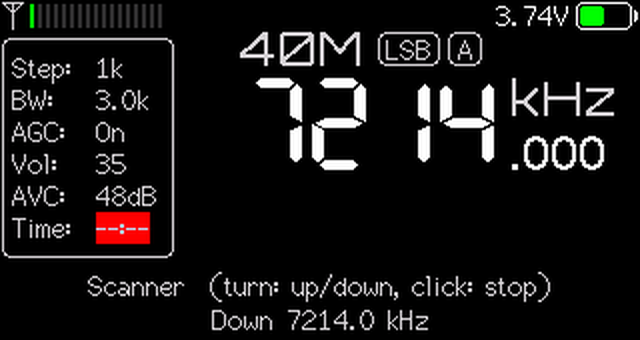
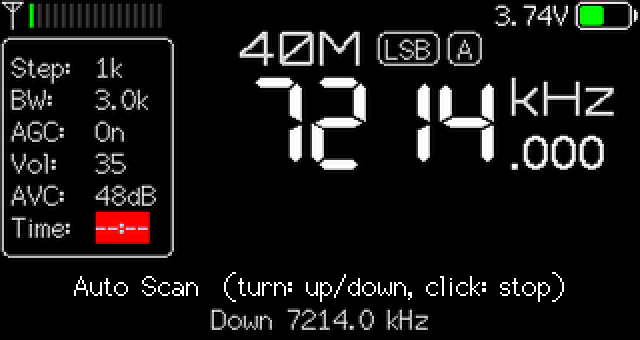
Manuals: Scan, Auto Scan and Seek set side by side in chapter 18 (English, web, Persian)

diff --git a/docs/manual-fa/manual-fa.html b/docs/manual-fa/manual-fa.html
@@ -42,6 +42,7 @@ figcaption { font-size: 9pt; color: var(--muted); margin-top: 1.5mm; }
 .pair { display: flex; gap: 6mm; justify-content: center; break-inside: avoid; }
 .pair figure { flex: 1; margin: 2mm 0 3mm; }
 .pair img.screen { width: 100%; }
+table.three td, table.three th { font-size: 9pt; vertical-align: top; }
   .side { display: flex; gap: 6mm; align-items: flex-start; break-inside: avoid; }
   .side > div { flex: 1; min-width: 0; }
   .side > div > :first-child { margin-top: 0; }
@@ -122,7 +123,7 @@ figcaption { font-size: 9pt; color: var(--muted); margin-top: 1.5mm; }
     <li><span class="n">۱۵</span>کنترل <bdi>CAT</bdi> از کامپیوتر<small>R2</small></li>
     <li><span class="n">۱۶</span>دیکودر <bdi>FT8</bdi> و <bdi>FT4</bdi><small class="r3">R3</small></li>
     <li><span class="n">۱۷</span>دیکودر <bdi>CW</bdi><small class="r3">R3</small></li>
-    <li><span class="n">۱۸</span>اسکنر باند<small class="r3">R3</small></li>
+    <li><span class="n">۱۸</span><bdi>Scan</bdi>، <bdi>Auto Scan</bdi> و <bdi>Seek</bdi><small class="r3">R3</small></li>
     <li><span class="n">۱۹</span>قفل فرکانس و سرعت پردازنده<small class="r3">R3</small></li>
     <li><span class="n">۲۰</span><bdi>Wi-Fi</bdi> و صفحهی وب رادیو<small class="r4">R4</small></li>
     <li><span class="n">۲۱</span>کنترل از مرورگر (<bdi>Web Control</bdi>)<small class="r4">R4</small></li>
@@ -206,7 +207,7 @@ figcaption { font-size: 9pt; color: var(--muted); margin-top: 1.5mm; }
   </div>
   <table>
     <tr><th style="width:20%">دسته</th><th>گزینهها</th></tr>
-    <tr><td><bdi>Tuning</bdi><br><span class="small">تنظیم</span></td><td><bdi>Band, Mode, Bandwidth, Freq Lock, FM Region, RDS, Scan, Scanner, Seek, Step, VFO A/B, Freq Entry, Band View, Capacitor</bdi></td></tr>
+    <tr><td><bdi>Tuning</bdi><br><span class="small">تنظیم</span></td><td><bdi>Band, Mode, Bandwidth, Freq Lock, FM Region, RDS, Scan, Auto Scan, Seek, Step, VFO A/B, Freq Entry, Band View, Capacitor</bdi></td></tr>
     <tr><td><bdi>Audio</bdi><br><span class="small">صدا</span></td><td><bdi>Volume, AGC/ATTN, Auto Att., AVC, FM Stereo, SoftMute, Squelch</bdi></td></tr>
     <tr><td><bdi>Memory</bdi><br><span class="small">حافظه</span></td><td><bdi>Memory, Logger, Mem Scan, Auto-Store</bdi></td></tr>
     <tr><td><bdi>Ham &amp; SWL</bdi><br><span class="small">آماتوری و موج کوتاه</span></td><td><bdi>Band Plan, Beacons, Calibration, CW Decoder, CW Strip, FT8/FT4, Digital, Dec. Audio, Load EiBi, Plan Area, Propagation</bdi></td></tr>
@@ -252,7 +253,7 @@ figcaption { font-size: 9pt; color: var(--muted); margin-top: 1.5mm; }
   </div>
   <h3>منوی کلاسیک<span class="tag r4" style="font-size:8pt">R4</span></h3>
   <p><span class="ui"><bdi>Menu</bdi> ← <bdi>Display</bdi> ← <bdi>Menu Style</bdi> ← <bdi>Classic</bdi></span> منوی فهرستی و کوچک فریمور رسمی را در گوشهی صفحه برمیگرداند. از نسخهی <bdi>R4</bdi> این منو همان شش دستهی جدول بالا را دارد: ابتدا دسته را انتخاب کنید و با کلیک باز کنید؛ اولین ردیف هر دسته <bdi>&lt; Back</bdi> است و عنوان کادر نام دسته را نشان میدهد. پس از تغییر یک تنظیم، منو به همان دسته برمیگردد. گزینهی <bdi>Tiles</bdi> منوی کاشیای را برمیگرداند.</p>
-  <div class="tip">گزینهی <bdi>Scan</bdi> در <bdi>Tuning</bdi> نمودار قدرت سیگنال در طول باند را رسم میکند (تصویری لحظهای از باند)؛ رادیو روی ایستگاهها توقف نمیکند. <bdi>Seek</bdi> به ایستگاه بعدی میرود؛ از نسخهی <bdi>R4</bdi> در <bdi>SSB</bdi> و <bdi>CW</bdi> هم کار میکند: باند را کیلوهرتز به کیلوهرتز با صدای بسته میگردد و روی اولین سیگنال میایستد (هر بار حداکثر <bdi>200 kHz</bdi>؛ اگر چیزی پیدا نکند پیام میدهد و به نقطهی شروع برمیگردد). برای ایستادن روی ایستگاهها از <bdi>Scanner</bdi> استفاده کنید (بخش ۱۸).</div>
+  <div class="tip">سه گزینه در <bdi>Tuning</bdi> ایستگاه پیدا میکنند و هر کدام به شیوهی خود: <bdi>Scan</bdi>، <bdi>Auto Scan</bdi> و <bdi>Seek</bdi>. بخش ۱۸ آنها را کنار هم میگذارد.</div>
 </section>
 
 <!-- 5 -->
@@ -395,19 +396,27 @@ figcaption { font-size: 9pt; color: var(--muted); margin-top: 1.5mm; }
   <p><span class="ui"><bdi>Menu</bdi> ← <bdi>Ham &amp; SWL</bdi> ← <bdi>CW Decoder</bdi></span> کد مورس را در صفحهای تمامصفحه به متن تبدیل میکند، همراه با سرعت (<bdi>WPM</bdi>)، فرکانس تن، نوار سطح و نشانگر کلید. طوری تنظیم کنید که تن در وسط فیلتر <bdi>CW</bdi> باشد. <b>چرخاندن:</b> تنظیم فرکانس، <b>کلیک:</b> پاک کردن متن، <b>فشار کوتاه:</b> خروج. سرعت خودبهخود از حدود ۵ تا ۴۰ کلمه در دقیقه دنبال میشود. صداهای ناگهانی جوّی و تقتقها نادیده گرفته میشوند؛ حرفهایی که خوانده نمیشوند با <bdi>*</bdi> نشان داده میشوند.</p>
   <p><span class="ui"><bdi>Menu</bdi> ← <bdi>Ham &amp; SWL</bdi> ← <bdi>CW Strip</bdi> ← <bdi>On</bdi></span> متن دیکودشده را در حالت <bdi>CW</bdi> در پایین صفحهی اصلی نشان میدهد. مانند صفحهی <bdi>FT8</bdi> به برد <bdi>V4B</bdi> نیاز دارد و وقتی <bdi>Wi-Fi</bdi> خاموش است کار میکند.</p>
 
-  <h2 style="margin-top:9mm"><span class="num">۱۸</span>اسکنر باند<span class="tag r3">R3</span></h2>
-  <p><span class="ui"><bdi>Menu</bdi> ← <bdi>Tuning</bdi> ← <bdi>Scanner</bdi></span> از فرکانس فعلی در طول باند حرکت میکند و روی سیگنالها میایستد (سطح <bdi>Squelch</bdi> اگر تنظیم شده باشد، وگرنه <bdi>SNR</bdi> برابر <bdi>6 dB</bdi> یا بیشتر). در لبهی باند از سر دیگر ادامه میدهد.</p>
-  <figure><img class="screen" src="img/screen-scanner.png" alt=""><figcaption>اسکنر در حال حرکت به پایین روی ۴۰ متر</figcaption></figure>
-  <ul>
-    <li><b>چرخاندن:</b> جهت را تعیین میکند: راست به بالا، چپ به پایین، و فوراً ادامه میدهد.</li>
-    <li><b>کلیک:</b> اسکنر را روی همان فرکانس متوقف میکند.</li>
-    <li>در <bdi>SSB</bdi> و <bdi>CW</bdi> تا وقتی ایستگاه شنیده میشود میماند و چهار ثانیه پس از قطع آن ادامه میدهد. روی ایستگاههای پخش <bdi>AM</bdi> و <bdi>FM</bdi> که هیچوقت ساکت نمیشوند، روی هر ایستگاه پنج ثانیه میماند؛ در <bdi>FM</bdi> پس از هر ایستگاه ۲۰۰ کیلوهرتز بعدی را رد میکند تا یک ایستگاه قوی دو بار آن را متوقف نکند.</li>
-  </ul>
-  <p class="small">گام حرکت همان گام تنظیم است، دستکم <bdi>1 kHz</bdi> در <bdi>SSB</bdi>، <bdi>500 Hz</bdi> در <bdi>CW</bdi> و <bdi>100 kHz</bdi> در <bdi>FM</bdi>. اگر روی نویز زیاد میایستد، اول سطح <bdi>Squelch</bdi> را تنظیم کنید.</p>
+  <h2 style="margin-top:9mm"><span class="num">۱۸</span><bdi>Scan</bdi>، <bdi>Auto Scan</bdi> و <bdi>Seek</bdi><span class="tag r3">R3</span></h2>
+  <p>سه گزینه در <span class="ui"><bdi>Menu</bdi> ← <bdi>Tuning</bdi></span> ایستگاه پیدا میکنند. نامشان شبیه است ولی کارشان فرق دارد: <bdi>Scan</bdi> باند را به شما نشان میدهد، <bdi>Auto Scan</bdi> خودش باند را میگردد، و <bdi>Seek</bdi> شما را به ایستگاه بعدی میبرد. <span class="small">(نام <bdi>Auto Scan</bdi> تا <bdi>R4</bdi>، <bdi>Scanner</bdi> بود.)</span></p>
+  <table class="three">
+    <tr><th style="width:13%"></th><th style="width:31%"><bdi>Scan</bdi></th><th style="width:28%"><bdi>Auto Scan</bdi></th><th><bdi>Seek</bdi></th></tr>
+    <tr><td><b>چیست</b></td><td>تصویری از باند. با یک نگاه میبینید سیگنالها کجا هستند و روی یک قله تنظیم میکنید.</td><td>جستوجویی که ادامه دارد. بدون دستزدن به ولوم به سراسر یک باند گوش میدهید.</td><td>پرش به ایستگاه بعدی، یک بار. با سرعت دلخواه خودتان از ایستگاهی به ایستگاه دیگر میروید.</td></tr>
+    <tr><td><b>چه میشود</b></td><td>رادیو یک بار با صدای بسته ۲۰۰ نقطه را دور فرکانس شما اندازه میگیرد، برمیگردد و نمودار را رسم میکند: پهنای آن <bdi>2&nbsp;MHz</bdi> و در <bdi>FM</bdi> <bdi>20&nbsp;MHz</bdi> است. علامت قرمز فرکانس شماست.</td><td>رادیو از فرکانس شما گامبهگام در باند حرکت میکند. روی سیگنال میایستد و آن را میشنوید (نوشتهی <bdi>Hold</bdi>)، سپس ادامه میدهد. در لبهی باند از سر دیگر ادامه میدهد.</td><td>با هر چرخش ولوم، رادیو با صدای بسته در همان جهت میگردد و روی اولین ایستگاه میایستد. تا وقتی دوباره نچرخانید همانجا میماند.</td></tr>
+    <tr><td><b>چرخاندن</b></td><td>مثل همیشه تنظیم میکند و نمودار زیر علامت قرمز جابهجا میشود. روی ایستگاهها نمیایستد.</td><td>جهت را تعیین میکند، راست به بالا و چپ به پایین، و فوراً ادامه میدهد.</td><td>راست: ایستگاه بعدی بالاتر. چپ: ایستگاه بعدی پایینتر. فشردن و چرخاندن، تنظیم دستی است.</td></tr>
+    <tr><td><b>کلیک</b></td><td><bdi>Scan</bdi> را میبندد. فشار کوتاه دوباره اندازه میگیرد.</td><td>روی همان فرکانس میایستد.</td><td><bdi>Seek</bdi> را میبندد. فشار کوتاه به برنامهی <bdi>EiBi</bdi> میرود (پایینتر).</td></tr>
+  </table>
+  <div class="pair">
+    <figure><img class="screen" src="img/screen-tuning2.png" alt=""><figcaption>هر سه در برگهی دوم <bdi>Tuning</bdi></figcaption></figure>
+    <figure><img class="screen" src="img/screen-scan.png" alt=""><figcaption><bdi>Scan</bdi>: سیگنال (<bdi>S</bdi>، سبز) و سیگنال به نویز (<bdi>N</bdi>، آبی)</figcaption></figure>
+    <figure><img class="screen" src="img/screen-scanner.png" alt=""><figcaption><bdi>Auto Scan</bdi> در حال حرکت به پایین روی ۴۰ متر</figcaption></figure>
+  </div>
+  <p><b><bdi>Auto Scan</bdi></b> روی سیگنال میایستد: در سطح <bdi>Squelch</bdi> اگر تنظیم شده باشد، وگرنه با <bdi>SNR</bdi> برابر <bdi>6&nbsp;dB</bdi> یا بیشتر. در <bdi>SSB</bdi> و <bdi>CW</bdi> تا وقتی ایستگاه شنیده میشود میماند و چهار ثانیه پس از قطع آن ادامه میدهد. روی ایستگاههای پخش <bdi>AM</bdi> و <bdi>FM</bdi> که هیچوقت ساکت نمیشوند، روی هر ایستگاه پنج ثانیه میماند؛ در <bdi>FM</bdi> پس از هر ایستگاه ۲۰۰ کیلوهرتز بعدی را رد میکند تا یک ایستگاه قوی دو بار آن را متوقف نکند. گام حرکت همان گام تنظیم است، دستکم <bdi>1&nbsp;kHz</bdi> در <bdi>SSB</bdi>، <bdi>500&nbsp;Hz</bdi> در <bdi>CW</bdi> و <bdi>100&nbsp;kHz</bdi> در <bdi>FM</bdi>. اگر روی نویز زیاد میایستد، اول سطح <bdi>Squelch</bdi> را تنظیم کنید.</p>
+  <p><b><bdi>Seek</bdi></b> در <bdi>AM</bdi> و <bdi>FM</bdi> از جستوجوی خود تراشهی گیرنده استفاده میکند. در <bdi>SSB</bdi> و <bdi>CW</bdi> (از <bdi>R4</bdi>) باند را کیلوهرتز به کیلوهرتز میگردد و روی اولین سیگنال میایستد، با هر چرخش حداکثر <bdi>200&nbsp;kHz</bdi>؛ اگر چیزی پیدا نکند پیام میدهد و به نقطهی شروع برمیگردد. با فشار کوتاه در <bdi>Seek</bdi> یک ساعت در کادر آن دیده میشود: از آن پس هر چرخش به فرکانس بعدیای میرود که برنامهی <bdi>EiBi</bdi> (بخش ۱۴) در این ساعت برای آن ایستگاهی دارد. این حالت به برنامهی بارگذاریشده و ساعت تنظیمشده نیاز دارد و در <bdi>FM</bdi> نیست.</p>
+  <p class="small">برای دیدن یک باند کامل در تمام صفحه، همراه با قویترین سیگنالهایش، <bdi>Band View</bdi> در بخش ۲۳ را ببینید.</p>
 </section>
 
 <!-- 19 -->
-<section class="chapter">
+<section class="chapter cont">
   <h2><span class="num">۱۹</span>قفل فرکانس و سرعت پردازنده<span class="tag r3">R3</span></h2>
   <p><span class="ui"><bdi>Menu</bdi> ← <bdi>Tuning</bdi> ← <bdi>Freq Lock</bdi> ← <bdi>On</bdi></span>: ولوم به جای تنظیم فرکانس، بلندی صدا را تنظیم میکند و تنظیم رقمبهرقم (فشار و چرخاندن) غیرفعال میشود. علامت قفل کنار مد نشان میدهد قفل روشن است؛ پس از خاموش و روشن کردن هم میماند.</p>
   <div class="pair">

diff --git a/docs/manual-en/manual-en.html b/docs/manual-en/manual-en.html
@@ -42,6 +42,7 @@ figcaption { font-size: 9pt; color: var(--muted); margin-top: 1.5mm; }
 .pair { display: flex; gap: 6mm; justify-content: center; break-inside: avoid; }
 .pair figure { flex: 1; margin: 2mm 0 3mm; }
 .pair img.screen { width: 100%; }
+table.three td, table.three th { font-size: 8.5pt; vertical-align: top; }
   .side { display: flex; gap: 6mm; align-items: flex-start; break-inside: avoid; }
   .side > div { flex: 1; min-width: 0; }
   .side > div > :first-child { margin-top: 0; }
@@ -124,7 +125,7 @@ figcaption { font-size: 9pt; color: var(--muted); margin-top: 1.5mm; }
     <li><span class="n">15</span>CAT control from a computer<small>R2</small></li>
     <li><span class="n">16</span>FT8 and FT4 decoder<small class="r3">R3</small></li>
     <li><span class="n">17</span>CW decoder<small class="r3">R3</small></li>
-    <li><span class="n">18</span>Band scanner<small class="r3">R3</small></li>
+    <li><span class="n">18</span>Scan, Auto Scan and Seek<small class="r3">R3</small></li>
     <li><span class="n">19</span>Frequency lock and CPU speed<small class="r3">R3</small></li>
     <li><span class="n">20</span>Wi-Fi and the radio's web pages<small class="r4">R4</small></li>
     <li><span class="n">21</span>Web Control<small class="r4">R4</small></li>
@@ -152,7 +153,7 @@ figcaption { font-size: 9pt; color: var(--muted); margin-top: 1.5mm; }
     <li>Battery time left, and automatic attenuation for very strong signals</li>
     <li>A new menu with six groups and full-screen settings pages <small>(R2)</small></li>
     <li>Beacon tracker, memory scan, signal logger, propagation data, EiBi schedules with days, and CAT control <small>(R2)</small></li>
-    <li>FT8/FT4 and CW decoders, band scanner, automatic band plan for Regions 1, 2 and 3, frequency lock and CPU speed <small>(R3)</small></li>
+    <li>FT8/FT4 and CW decoders, band scanner (Auto Scan), automatic band plan for Regions 1, 2 and 3, frequency lock and CPU speed <small>(R3)</small></li>
     <li>Web Control: the whole radio in a browser on a phone or computer, with a band scope and a live beacon map; Wi-Fi set up on the radio itself; Seek in SSB and CW <small>(R4)</small></li>
   </ul>
   <p>Bands, modes, memories, RDS, Wi-Fi and Bluetooth work as in the official firmware. The official firmware's full manual: esp32-si4732.github.io/ats-mini/manual.html</p>
@@ -209,7 +210,7 @@ figcaption { font-size: 9pt; color: var(--muted); margin-top: 1.5mm; }
   </div>
   <table>
     <tr><th style="width:20%">Group</th><th>Items</th></tr>
-    <tr><td>Tuning</td><td>Band, Mode, Bandwidth, Freq Lock, FM Region, RDS, Scan, Scanner, Seek, Step, VFO A/B, Freq Entry, Band View, Capacitor</td></tr>
+    <tr><td>Tuning</td><td>Band, Mode, Bandwidth, Freq Lock, FM Region, RDS, Scan, Auto Scan, Seek, Step, VFO A/B, Freq Entry, Band View, Capacitor</td></tr>
     <tr><td>Audio</td><td>Volume, AGC/ATTN, Auto Att., AVC, FM Stereo, SoftMute, Squelch</td></tr>
     <tr><td>Memory</td><td>Memory, Logger, Mem Scan, Auto-Store</td></tr>
     <tr><td>Ham &amp; SWL</td><td>Band Plan, Beacons, Calibration, CW Decoder, CW Strip, FT8/FT4, Digital, Dec. Audio, Load EiBi, Plan Area, Propagation</td></tr>
@@ -255,7 +256,7 @@ figcaption { font-size: 9pt; color: var(--muted); margin-top: 1.5mm; }
   </div>
   <h3>Classic menu<span class="tag r4" style="font-size:8pt">R4</span></h3>
   <p><span class="ui">Menu → Display → Menu Style → Classic</span> brings back the small list menu of the official firmware, in the corner of the screen. From R4 it has the same six groups as the table above: choose a group and click; the first row of each group is <b>&lt; Back</b>, and the box title names the group. After a setting is changed the menu returns to its group. <b>Tiles</b> switches back to the tile menu.</p>
-  <div class="tip"><b>Scan</b> in Tuning draws the signal strength across the band (a snapshot of the band); the radio does not stop on stations. <b>Seek</b> goes to the next station; from R4 it also works in SSB and CW: it searches the band 1 kHz at a time with the sound muted and stops on the first signal (at most 200 kHz per press; if it finds nothing it says so and goes back to where it started). To stop on stations as you go, use <b>Scanner</b> (section 18).</div>
+  <div class="tip">Three items in Tuning look for stations, each in its own way: <b>Scan</b>, <b>Auto Scan</b> and <b>Seek</b>. Section 18 sets them side by side.</div>
 </section>
 
 <!-- 5 -->
@@ -397,19 +398,27 @@ figcaption { font-size: 9pt; color: var(--muted); margin-top: 1.5mm; }
   <p><span class="ui">Menu → Ham &amp; SWL → CW Decoder</span> turns Morse code into text on a full-screen page, with speed (WPM), tone frequency, a level bar and a key indicator. Tune so the tone is in the middle of the CW filter. <b>Turn:</b> tune, <b>click:</b> clear the text, <b>short press:</b> leave. The speed is followed automatically from about 5 to 40 words per minute. Static crashes and clicks are ignored; characters that cannot be read are shown as <b>*</b>. From R4 the page uses a steady receiver level, so decoding does not depend on the volume setting.</p>
   <p><span class="ui">Menu → Ham &amp; SWL → CW Strip → On</span> shows the decoded text at the bottom of the main screen in CW mode. Like the FT8 page it needs the V4B board, and it works while Wi-Fi is off.</p>
 
-  <h2 style="margin-top:9mm"><span class="num">18</span>Band scanner<span class="tag r3">R3</span></h2>
-  <p><span class="ui">Menu → Tuning → Scanner</span> moves along the band from the current frequency and stops on signals (the Squelch level if set, otherwise an SNR of 6 dB or more). At the band edge it carries on from the other end.</p>
-  <figure><img class="screen" src="../manual-fa/img/screen-scanner.png" alt=""><figcaption>The scanner moving down on 40 m</figcaption></figure>
-  <ul>
-    <li><b>Turn:</b> sets the direction: right up, left down, and it carries on at once.</li>
-    <li><b>Click:</b> stops the scanner on the current frequency.</li>
-    <li>In SSB and CW it holds while the station is heard and moves on four seconds after it goes. On AM and FM broadcasts, which never go quiet, it stays five seconds on each station; in FM it skips the next 200 kHz after each station so a strong station does not stop it twice.</li>
-  </ul>
-  <p class="small">It moves by the tuning step, at least 1 kHz in SSB, 500 Hz in CW and 100 kHz in FM. If it stops on noise too often, set a Squelch level first.</p>
+  <h2 style="margin-top:9mm"><span class="num">18</span>Scan, Auto Scan and Seek<span class="tag r3">R3</span></h2>
+  <p>Three items in <span class="ui">Menu → Tuning</span> look for stations. Their names are alike and they do different things: <b>Scan</b> shows you the band, <b>Auto Scan</b> goes through the band for you, and <b>Seek</b> takes you to the next station. <span class="small">(Auto Scan was called Scanner until R4.)</span></p>
+  <table class="three">
+    <tr><th style="width:13%"></th><th style="width:31%">Scan</th><th style="width:28%">Auto Scan</th><th>Seek</th></tr>
+    <tr><td><b>What it is</b></td><td>A picture of the band. You see at a glance where the signals are, then tune to a peak.</td><td>A search that keeps going. You listen through a band without touching the knob.</td><td>A jump to the next station, once. You go from station to station at your own pace.</td></tr>
+    <tr><td><b>What happens</b></td><td>The radio measures 200 points around your frequency once, with the sound off, comes back and draws the graph: 2 MHz wide, 20 MHz on FM. The red mark is your frequency.</td><td>The radio steps along the band from your frequency. On a signal it stops and you hear it (the line says Hold), then it goes on. At the band edge it carries on from the other end.</td><td>At every turn of the knob the radio searches in that direction with the sound off and stops on the first station. It stays there until you turn again.</td></tr>
+    <tr><td><b>Turn</b></td><td>Tunes as usual, and the graph slides under the red mark. It does not stop on stations.</td><td>Sets the direction, right up and left down, and goes on at once.</td><td>Right: the next station up. Left: the next one down. Press and turn tunes by hand.</td></tr>
+    <tr><td><b>Click</b></td><td>Closes Scan. A short press measures again.</td><td>Stops on the current frequency.</td><td>Closes Seek. A short press changes to the schedule (below).</td></tr>
+  </table>
+  <div class="pair">
+    <figure><img class="screen" src="../manual-fa/img/screen-tuning2.png" alt=""><figcaption>The three in Tuning, second page</figcaption></figure>
+    <figure><img class="screen" src="../manual-fa/img/screen-scan.png" alt=""><figcaption>Scan: signal (S, green) and signal to noise (N, blue)</figcaption></figure>
+    <figure><img class="screen" src="../manual-fa/img/screen-scanner.png" alt=""><figcaption>Auto Scan moving down on 40 m</figcaption></figure>
+  </div>
+  <p><b>Auto Scan</b> stops on a signal at the Squelch level if one is set, otherwise at an SNR of 6 dB or more. In SSB and CW it holds while the station is heard and moves on four seconds after it goes. On AM and FM broadcasts, which never go quiet, it stays five seconds on each station; in FM it skips the next 200 kHz after each station so a strong station does not stop it twice. It moves by the tuning step, at least 1 kHz in SSB, 500 Hz in CW and 100 kHz in FM. If it stops on noise too often, set a Squelch level first.</p>
+  <p><b>Seek</b> uses the receiver chip's own search in AM and FM. In SSB and CW (from R4) it searches the band 1 kHz at a time and stops on the first signal, at most 200 kHz per turn; if it finds nothing it says so and goes back to where it started. A short press in Seek puts a clock in its box: every turn then goes to the next frequency on which the EiBi schedule (section 14) lists a station at this hour. That needs the schedule loaded and the clock set, and it is not there on FM.</p>
+  <p class="small">For a whole band on a full screen, with its strongest signals listed, see Band View in section 23.</p>
 </section>
 
 <!-- 19 -->
-<section class="chapter">
+<section class="chapter cont">
   <h2><span class="num">19</span>Frequency lock and CPU speed<span class="tag r3">R3</span></h2>
   <p><span class="ui">Menu → Tuning → Freq Lock → On</span>: the knob sets the volume instead of tuning, and digit tuning (press and turn) is off. A padlock next to the mode shows the lock is on; it is kept across restarts.</p>
   <div class="pair">

diff --git a/website/manual/index.html b/website/manual/index.html
@@ -70,7 +70,7 @@
           <li><a href="#digital">RTTY, NAVTEX, PSK31 and WEFAX <small>r5</small></a></li>
           <li><a href="#try">Signals to try the decoders with <small>r5</small></a></li>
           <li><a href="#decaudio">Decoder Audio: 3 kHz or 6 kHz <small>r5</small></a></li>
-          <li><a href="#scanner">Band scanner <small>r3</small></a></li>
+          <li><a href="#scanner">Scan, Auto Scan and Seek <small>r3</small></a></li>
           <li><a href="#lock">Frequency lock and CPU speed <small>r3</small></a></li>
           <li><a href="#encaccel">Knob speed-up: Enc. Accel. <small>r5</small></a></li>
           <li><a href="#capacitor">Antenna capacitor: Capacitor <small>r5</small></a></li>
@@ -143,7 +143,7 @@
         <p>Listening controls such as Band, Mode, Step or Volume open their list as before; after your choice the menu closes, so the encoder tunes straight away. Settings open full screen as a list of values, or a number with a bar; a click keeps the value and returns to the category.</p>
         <table>
           <tr><th>Category</th><th>Items</th></tr>
-          <tr><td>Tuning</td><td>Band, Mode, Bandwidth, Freq Lock, FM Region, RDS, Scan, Scanner, Seek, Step, VFO A/B, Freq Entry, Band View, Capacitor</td></tr>
+          <tr><td>Tuning</td><td>Band, Mode, Bandwidth, Freq Lock, FM Region, RDS, Scan, Auto Scan, Seek, Step, VFO A/B, Freq Entry, Band View, Capacitor</td></tr>
           <tr><td>Audio</td><td>Volume, AGC/ATTN, Auto Att., AVC, FM Stereo, SoftMute, Squelch</td></tr>
           <tr><td>Memory</td><td>Memory, Logger, Mem Scan, Auto-Store</td></tr>
           <tr><td>Ham &amp; SWL</td><td>Band Plan, Beacons, Calibration, CW Decoder, CW Strip, FT8/FT4, Digital, Dec. Audio, Load EiBi, Plan Area, Propagation</td></tr>
@@ -245,14 +245,17 @@
         </ul>
         <p>The Decodes tab shows which one is in use (<b>3 kHz audio</b> or <b>6 kHz audio</b>) beside the mode. The choice is kept when the radio is switched off. The CW decoder is not affected.</p>
 
-        <h2 id="scanner">Band scanner <small style="font-size:.7em;color:var(--muted)">v2.45-r3</small></h2>
-        <p><span class="ui">Menu → Tuning → Scanner</span> steps through the band from the current frequency and stops on signals (the mode's squelch level if set, otherwise an SNR of 6 dB or more), wrapping at the band edge.</p>
-        <ul>
-          <li><b>Turn</b> the encoder to set the direction: right scans up, left scans down. It moves on at once.</li>
-          <li><b>Click</b> stops the scanner on the frequency.</li>
-          <li>In SSB and CW it holds while the station is heard and moves on four seconds after it goes. On AM and FM broadcasts, which never go quiet, it stays five seconds on each station; in FM it skips the next 200 kHz so a strong station does not stop it twice.</li>
-        </ul>
-        <p>The step is the tuning step, at least 1 kHz in SSB, 500 Hz in CW and 100 kHz in FM. Set a squelch level first if it stops on noise too often.</p>
+        <h2 id="scanner">Scan, Auto Scan and Seek <small style="font-size:.7em;color:var(--muted)">v2.45-r3</small></h2>
+        <p>Three items in <span class="ui">Menu → Tuning</span> look for stations. Their names are alike and they do different things: <b>Scan</b> shows you the band, <b>Auto Scan</b> goes through the band for you, and <b>Seek</b> takes you to the next station. (Auto Scan was called Scanner until R4.)</p>
+        <table>
+          <tr><th></th><th>Scan</th><th>Auto Scan</th><th>Seek</th></tr>
+          <tr><td><b>What it is</b></td><td>A picture of the band. You see at a glance where the signals are, then tune to a peak.</td><td>A search that keeps going. You listen through a band without touching the knob.</td><td>A jump to the next station, once. You go from station to station at your own pace.</td></tr>
+          <tr><td><b>What happens</b></td><td>The radio measures 200 points around your frequency once, with the sound off, comes back and draws the graph under the frequency: 2 MHz wide, 20 MHz on FM. S (green) is the signal strength, N (blue) the signal-to-noise ratio. The red mark is your frequency.</td><td>The radio steps along the band from your frequency. On a signal it stops and you hear it (the line says Hold), then it goes on. At the band edge it carries on from the other end.</td><td>At every turn of the knob the radio searches in that direction with the sound off and stops on the first station. It stays there until you turn again.</td></tr>
+          <tr><td><b>Turn</b></td><td>Tunes as usual, and the graph slides under the red mark. It does not stop on stations.</td><td>Sets the direction, right up and left down, and goes on at once.</td><td>Right: the next station up. Left: the next one down. Press and turn tunes by hand.</td></tr>
+          <tr><td><b>Click</b></td><td>Closes Scan. A short press measures again.</td><td>Stops on the current frequency.</td><td>Closes Seek. A short press changes to the schedule (below).</td></tr>
+        </table>
+        <p><b>Auto Scan</b> stops on a signal at the mode's squelch level if one is set, otherwise at an SNR of 6 dB or more. In SSB and CW it holds while the station is heard and moves on four seconds after it goes. On AM and FM broadcasts, which never go quiet, it stays five seconds on each station; in FM it skips the next 200 kHz so a strong station does not stop it twice. The step is the tuning step, at least 1 kHz in SSB, 500 Hz in CW and 100 kHz in FM. Set a squelch level first if it stops on noise too often.</p>
+        <p><b>Seek</b> uses the receiver chip's own search in AM and FM. In SSB and CW (from R4) it searches the band 1 kHz at a time and stops on the first signal, at most 200 kHz per turn; if it finds nothing it says so and goes back to where it started. A short press in Seek puts a clock in its box: every turn then goes to the next frequency on which the EiBi schedule lists a station at this hour. That needs the schedule loaded and the clock set, and it is not there on FM.</p>
 
         <h2 id="lock">Frequency lock and CPU speed <small style="font-size:.7em;color:var(--muted)">v2.45-r3</small></h2>
         <p><span class="ui">Menu → Tuning → Freq Lock → On</span>: the encoder sets the volume instead of tuning, and press-and-turn digit tuning is off. A padlock after the band shows it; it is kept across restarts.</p>
